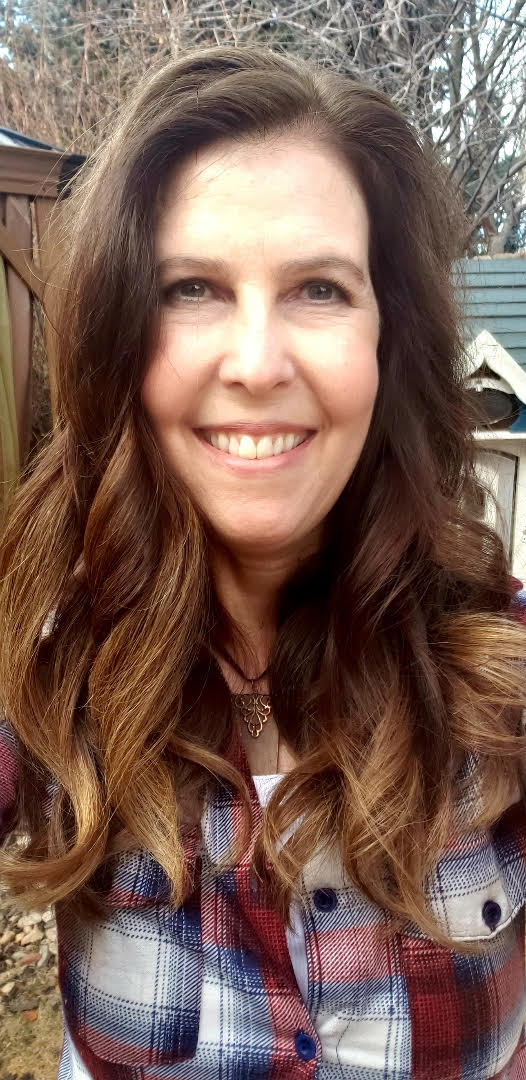
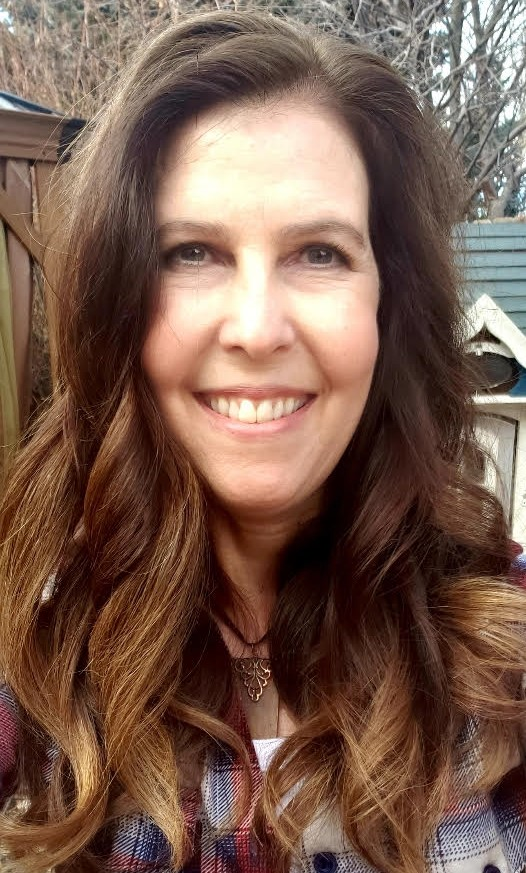
Added new profile pic to MeetTeacher

diff --git a/src/components/MeetTeacher.tsx b/src/components/MeetTeacher.tsx
@@ -1,11 +1,16 @@
-import image from "../assets/mrs-melanie.jpg";
+import profilePic from "../assets/ProfilePic.jpg";
 import "./MeetTeacher.css";
 
 export default function MeetTeacher() {
   return (
     <div className="meet-teacher" id="meet-teacher">
       <h2>Meet the Teacher!</h2>
-      <img src={image} alt="Ms. Melanie" id="melanie-image" />
+      <img
+        src={profilePic}
+        alt="Ms. Melanie"
+        title="Ms. Melanie"
+        id="melanie-image"
+      />
       <p>
         I am passionate about teaching preschool! I have been working in the
         field of early childhood education for almost 20 years beginning in high

diff --git a/src/components/Carousel.tsx b/src/components/Carousel.tsx
@@ -132,6 +132,7 @@ export default function Carousel({ images }: CarouselProps) {
         </div>
         <div id="carousel-image-container">
           <img
+            alt="Leaps and Bounds Images"
             src={images[currentImage]}
             style={{
               width: imageDimensions.width,

diff --git a/src/components/MeetTeacher.css b/src/components/MeetTeacher.css
@@ -1,3 +1,4 @@
 #melanie-image {
   height: 300px;
+  padding: 1rem;
 }
